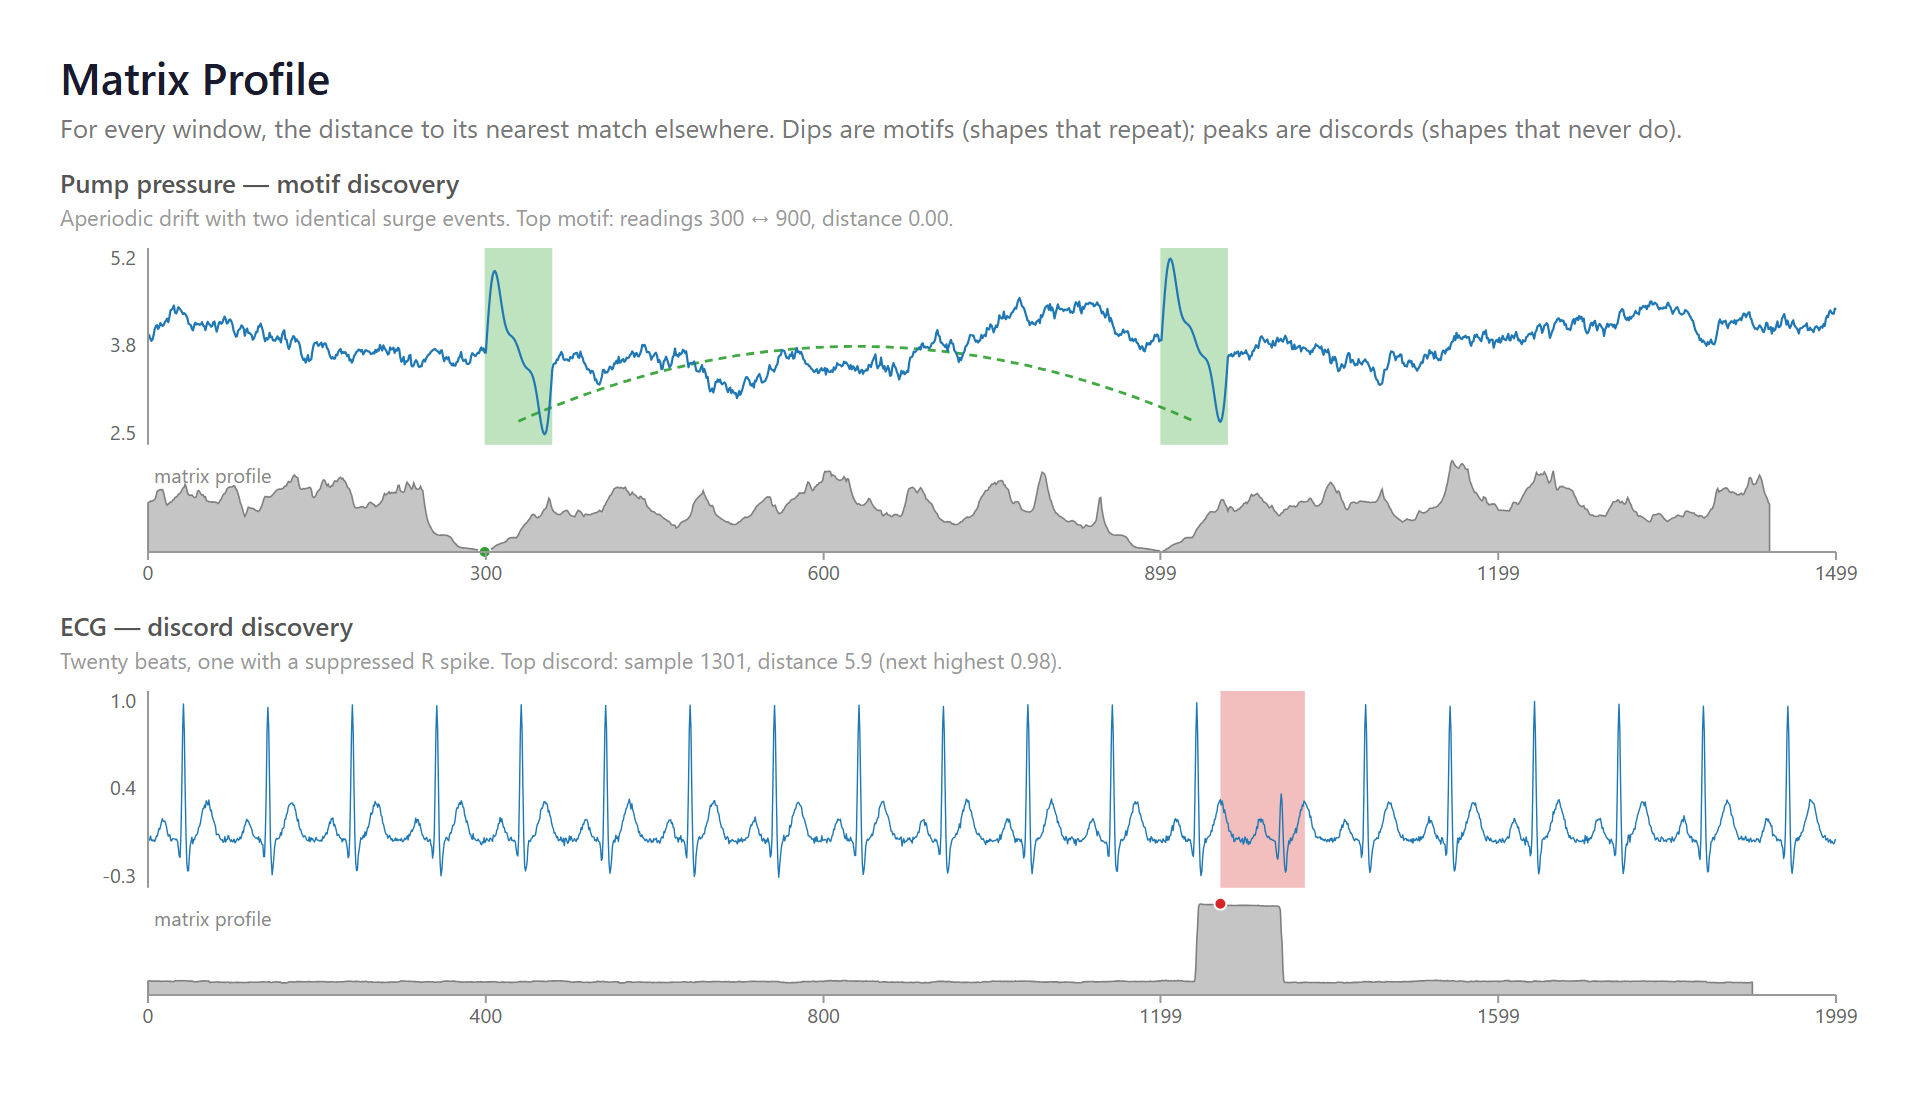
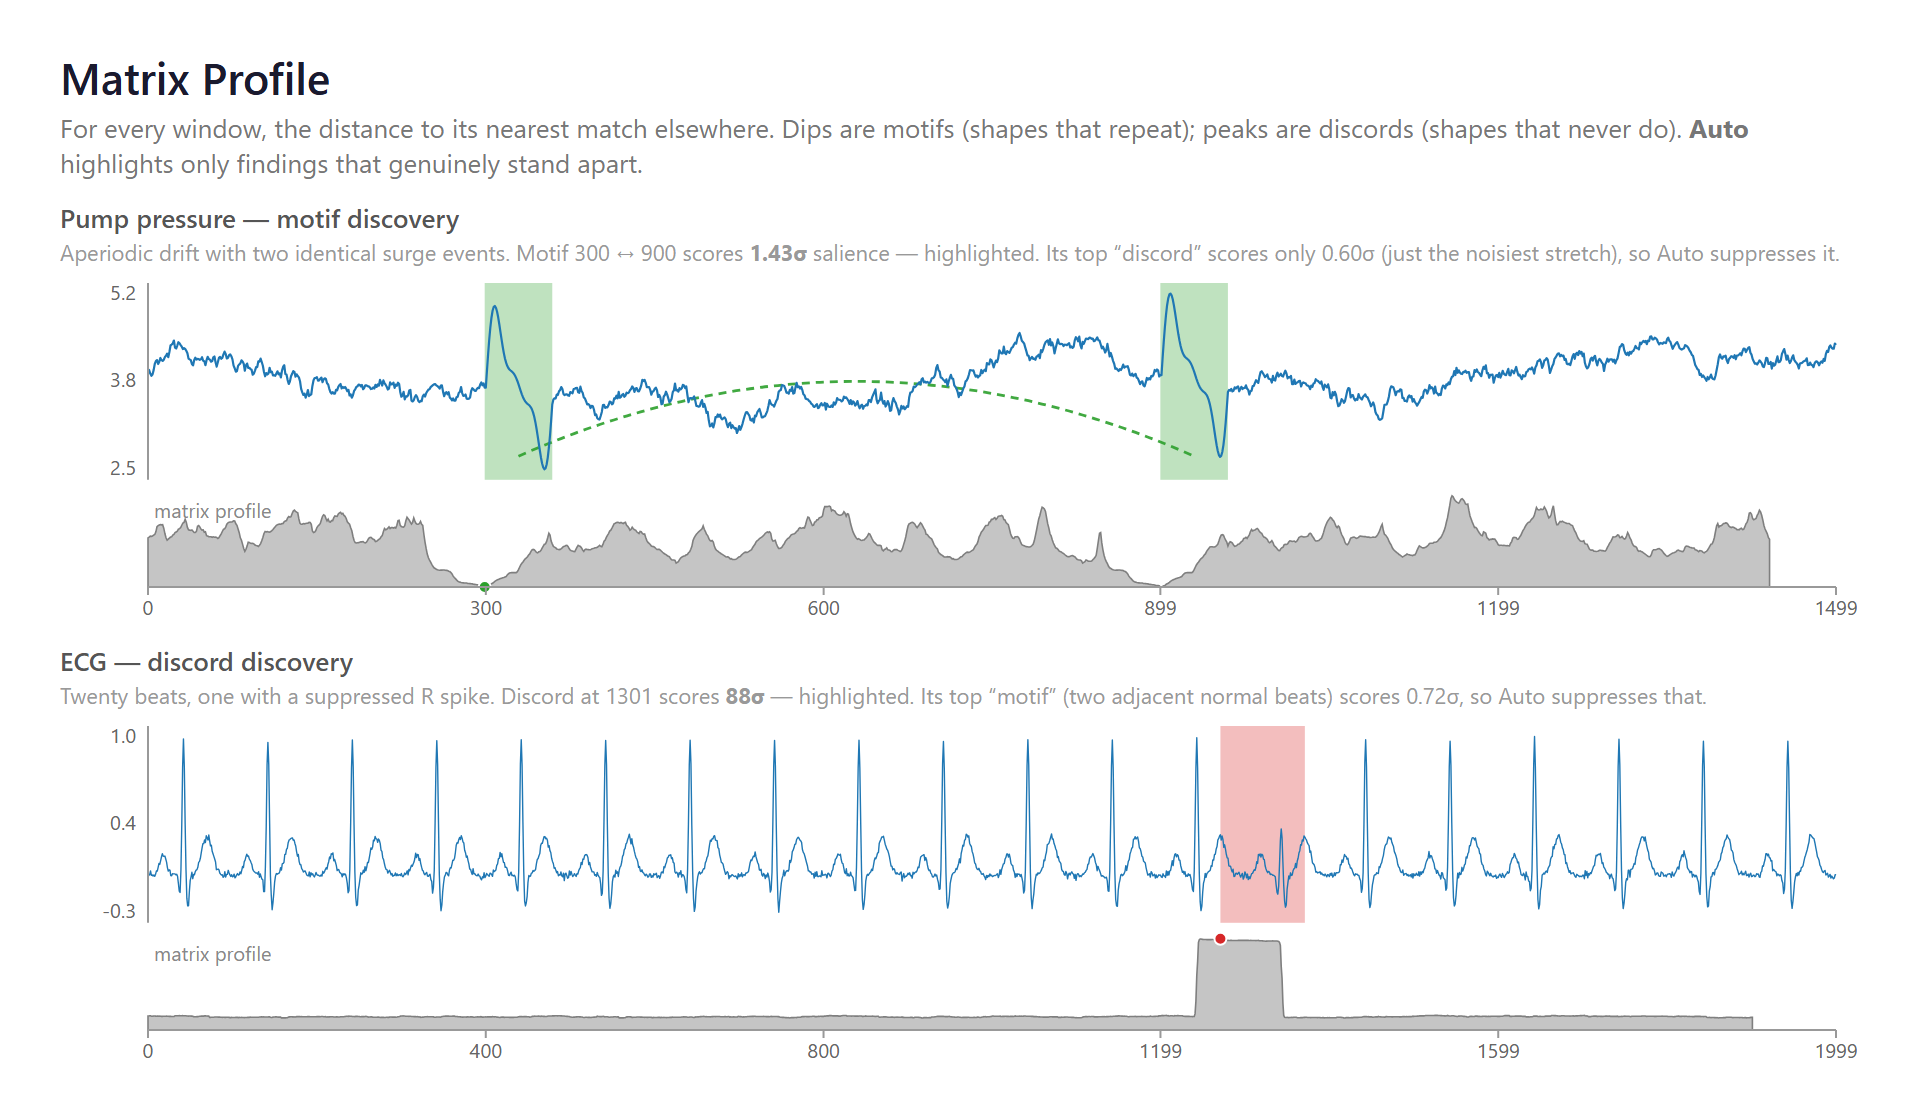
Matrix Profile: add focus control and salience gate
Motifs and discords need opposite baselines - motifs need aperiodic normality
so the planted repeat is the only repeat; discords need repetitive normality so
the anomaly is the only break. Drawing "top 3 of each" therefore showed noise
for half the display on any real dataset: on aperiodic data the discord boxes
landed on arbitrary novel spots (actively misleading), and on periodic data the
motif boxes landed on two adjacent identical beats (true but vacuous).

- Highlight dropdown: Auto (default) / Motifs only / Discords only / Both
- salience = gap to the immediate runner-up in robust (MAD-based) sigma, made
  monotone by a backward max pass so genuinely tied findings don't cancel out
- low-variance windows (sigma < 5% of median) excluded from discord candidacy:
  z-normalization divides by that tiny sigma and amplifies noise into a fake
  anomaly. This was the second pinned review item.
- status note when a side is suppressed, so silence doesn't read as breakage;
  salience surfaced in tooltips

Measure chosen empirically against ground truth, not by intuition. Two other
candidates were tried and rejected:
  z vs median      - FAILS: trivial ECG motif 2.93 > genuine pump motif 2.78
  past P95/P05     - FAILS worse: 0.43 real vs 1.11 artifact
  gap to runner-up - CLEAN: real 1.43 / 88.05, artifacts 0.60 / 0.72
Comparing against a deeper rank also loses the separation, because a gentle
slope accumulates until a trivial finding looks significant; the immediate gap
[…]

diff --git a/matrixProfile/src/matrixProfile.ts b/matrixProfile/src/matrixProfile.ts
@@ -47,17 +47,49 @@ export interface MatrixProfileResult {
     mpi: Int32Array;
     /** Number of subsequences = n - m + 1. */
     length: number;
+    /** Per-window standard deviation, retained for the low-variance guard. */
+    sig: Float64Array;
+    /**
+     * True where the window is so flat that z-normalization would amplify pure
+     * noise into a spurious "anomaly" (see the guard note in stomp()). These
+     * positions are excluded from discord candidacy.
+     */
+    lowVariance: boolean[];
+    lowVarianceCount: number;
+    /** Median of the finite profile values — the "typical distance" baseline. */
+    median: number;
+    /**
+     * Robust spread of the profile (1.4826·MAD ≈ σ for normal data). MAD is used
+     * rather than the standard deviation because a single strong anomaly would
+     * inflate σ and mask itself.
+     */
+    spread: number;
 }
+
+/** Extra candidates pulled beyond those displayed, so the last one still has a successor to compare against. */
+const SALIENCE_TAIL = 4;
 
 export interface MotifPair {
     a: number;          // start index of one occurrence
     b: number;          // start index of the matching occurrence
     distance: number;
+    /** How far *below* the profile bulk this pair sits, in robust σ. */
+    salience: number;
 }
 
 export interface Discord {
     index: number;
     distance: number;
+    /** How far *above* the profile bulk this point sits, in robust σ. */
+    salience: number;
+}
+
+/** Median of an array (does not mutate the input). */
+function medianOf(values: number[]): number {
+    if (values.length === 0) return 0;
+    const s = values.slice().sort((a, b) => a - b);
+    const mid = s.length >> 1;
+    return s.length % 2 ? s[mid] : (s[mid - 1] + s[mid]) / 2;
 }
 
 /** Rolling mean and (population) standard deviation for every window. */
@@ -156,47 +188,155 @@ export function stomp(T: Float64Array, m: number, exclusion: number): MatrixProf
         scanRow(i);
     }
 
-    return { mp, mpi, length: l };
+    // ── Low-variance guard ──────────────────────────────────────
+    // A near-flat window has no real shape: after z-normalization it is almost
+    // pure noise, which matches nothing, so its profile distance is spuriously
+    // large. Left alone, those windows masquerade as the top discords. Flag any
+    // window whose σ is a small fraction of the typical σ so the discord search
+    // can skip them. (Motifs are unaffected: flat-matches-flat is a real motif
+    // and already scores a *low* distance, not a high one.)
+    const sigVals: number[] = [];
+    for (let i = 0; i < l; i++) if (Number.isFinite(sig[i])) sigVals.push(sig[i]);
+    const medianSig = medianOf(sigVals);
+    const varianceFloor = medianSig * 0.05;   // < 5% of typical variability
+    const lowVariance = new Array<boolean>(l);
+    let lowVarianceCount = 0;
+    for (let i = 0; i < l; i++) {
+        const low = sig[i] < varianceFloor;
+        lowVariance[i] = low;
+        if (low) lowVarianceCount++;
+    }
+
+    // ── Salience baseline ───────────────────────────────────────
+    // Robust centre and spread of the profile distribution, so motif/discord
+    // extremes can be scored as "how many σ from the bulk" rather than accepted
+    // unconditionally.
+    const mpVals: number[] = [];
+    for (let i = 0; i < l; i++) if (Number.isFinite(mp[i])) mpVals.push(mp[i]);
+    const median = medianOf(mpVals);
+    const mad = medianOf(mpVals.map(v => Math.abs(v - median)));
+    const spread = Math.max(1.4826 * mad, 1e-9);
+
+    return { mp, mpi, length: l, sig, lowVariance, lowVarianceCount, median, spread };
 }
 
 /**
- * Top motif pairs: repeatedly take the globally smallest profile value and its
- * neighbour, then blank out the neighbourhood of both so the next pair is a
- * genuinely different pattern rather than a one-sample shift of this one.
+ * ── How salience is measured, and why ───────────────────────────
+ *
+ * Every series has a smallest and a largest profile value, so "top-N" always
+ * returns something. The question is whether those extremes are *findings* or
+ * just the ends of a continuum. Three candidate measures were tested against
+ * datasets with known ground truth (a planted motif in aperiodic data; a planted
+ * anomaly in periodic data):
+ *
+ *   A. distance from the profile median, in robust σ
+ *   B. distance past the P95/P05 tail
+ *   C. **gap to the runner-up candidates**
+ *
+ * A and B both fail: on tightly-clustered periodic data the profile's spread is
+ * so small that a *trivial* motif (two adjacent identical heartbeats) scores
+ * 2.93σ from the median — higher than a *genuine* planted motif at 2.78σ in
+ * noisier data. No cutoff separates them.
+ *
+ * C separates cleanly, because it asks the right question: **is there a cliff
+ * right after this candidate?** A real, isolated finding is followed by a sharp
+ * drop to ordinary values; the maximum of a noisy continuum has near-identical
+ * runners-up right behind it. On the same ground truth, real findings scored
+ * 1.43 and 88.05 while artifacts scored 0.60 and 0.72 — no overlap.
+ *
+ * (Comparing against a deeper rank instead of the immediate runner-up was also
+ * tried and *loses* the separation: a gentle slope accumulates over several
+ * ranks until a trivial finding looks significant.)
+ *
+ * One wrinkle: two genuinely equal findings would have no gap between them and
+ * would suppress each other. Salience is therefore made monotone with a
+ * backward pass — a candidate inherits the salience of the one behind it if that
+ * is larger — so a tied pair is judged by the cliff *after the pair*.
  */
-export function findMotifs(
-    res: MatrixProfileResult, count: number, exclusion: number
-): MotifPair[] {
-    const work = Float64Array.from(res.mp);
-    const out: MotifPair[] = [];
-    for (let k = 0; k < count; k++) {
-        let best = Infinity, bi = -1;
+
+/** Pull ranked candidates with the trivial-match exclusion applied. */
+function extractCandidates(
+    mp: Float64Array, mpi: Int32Array, skip: boolean[] | null,
+    wanted: number, exclusion: number, largest: boolean
+): { index: number; partner: number; distance: number }[] {
+    const work = Float64Array.from(mp);
+    if (skip) for (let i = 0; i < work.length; i++) if (skip[i]) work[i] = NaN;
+
+    const out: { index: number; partner: number; distance: number }[] = [];
+    for (let k = 0; k < wanted; k++) {
+        let best = largest ? -Infinity : Infinity, bi = -1;
         for (let i = 0; i < work.length; i++) {
-            if (Number.isFinite(work[i]) && work[i] < best) { best = work[i]; bi = i; }
+            if (!Number.isFinite(work[i])) continue;
+            if (largest ? work[i] > best : work[i] < best) { best = work[i]; bi = i; }
         }
         if (bi < 0) break;
-        const partner = res.mpi[bi];
-        out.push({ a: bi, b: partner, distance: best });
+        const partner = mpi[bi];
+        out.push({ index: bi, partner, distance: best });
         blank(work, bi, exclusion);
-        if (partner >= 0) blank(work, partner, exclusion);
+        // For motifs the partner is part of the same finding — claim it too.
+        if (!largest && partner >= 0) blank(work, partner, exclusion);
     }
     return out;
 }
 
-/** Top discords: the same sweep, but taking the largest values. */
+/**
+ * Top motif pairs — the smallest profile values and their matching partners.
+ *
+ * @param minSalience  require each pair to stand at least this many robust σ
+ *                     apart from the ordinary level. 0 keeps the raw top-N
+ *                     (explicit "Motifs" mode); a positive value gates out
+ *                     non-findings (used by "Auto").
+ */
+export function findMotifs(
+    res: MatrixProfileResult, count: number, exclusion: number, minSalience = 0
+): MotifPair[] {
+    const cands = extractCandidates(res.mp, res.mpi, null, count + SALIENCE_TAIL, exclusion, false);
+    if (cands.length === 0) return [];
+    const sal = gapSalience(cands.map(c => c.distance), res.spread, false);
+
+    const out: MotifPair[] = [];
+    for (let k = 0; k < Math.min(count, cands.length); k++) {
+        if (sal[k] < minSalience) break;
+        const c = cands[k];
+        out.push({ a: c.index, b: c.partner, distance: c.distance, salience: sal[k] });
+    }
+    return out;
+}
+
+/**
+ * Gap-to-runner-up salience for a ranked candidate list, made monotone so tied
+ * findings don't cancel each other out. The final candidate has no successor to
+ * compare against and scores 0.
+ */
+function gapSalience(distances: number[], spread: number, largest: boolean): number[] {
+    const n = distances.length;
+    const out = new Array<number>(n).fill(0);
+    for (let k = n - 2; k >= 0; k--) {
+        const gap = largest
+            ? distances[k] - distances[k + 1]        // discords: bigger is better
+            : distances[k + 1] - distances[k];       // motifs: smaller is better
+        out[k] = Math.max(gap / spread, out[k + 1]);
+    }
+    return out;
+}
+
+/**
+ * Top discords — the largest profile values. Low-variance windows are never
+ * eligible: they are z-normalization artifacts, not anomalies.
+ */
 export function findDiscords(
-    res: MatrixProfileResult, count: number, exclusion: number
+    res: MatrixProfileResult, count: number, exclusion: number, minSalience = 0
 ): Discord[] {
-    const work = Float64Array.from(res.mp);
+    const cands = extractCandidates(res.mp, res.mpi, res.lowVariance,
+        count + SALIENCE_TAIL, exclusion, true);
+    if (cands.length === 0) return [];
+    const sal = gapSalience(cands.map(c => c.distance), res.spread, true);
+
     const out: Discord[] = [];
-    for (let k = 0; k < count; k++) {
-        let best = -Infinity, bi = -1;
-        for (let i = 0; i < work.length; i++) {
-            if (Number.isFinite(work[i]) && work[i] > best) { best = work[i]; bi = i; }
-        }
-        if (bi < 0) break;
-        out.push({ index: bi, distance: best });
-        blank(work, bi, exclusion);
+    for (let k = 0; k < Math.min(count, cands.length); k++) {
+        if (sal[k] < minSalience) break;
+        const c = cands[k];
+        out.push({ index: c.index, distance: c.distance, salience: sal[k] });
     }
     return out;
 }

diff --git a/matrixProfile/src/visual.ts b/matrixProfile/src/visual.ts
@@ -131,8 +131,24 @@ export class Visual implements IVisual {
                 return;
             }
 
-            const motifs = findMotifs(res, Math.max(0, Math.round(P.motifCount.value ?? 3)), exclusion);
-            const discords = findDiscords(res, Math.max(0, Math.round(P.discordCount.value ?? 3)), exclusion);
+            // ── Focus + salience gate ──────────────────────────────
+            // Most series support motifs OR discords, not both: a repetitive
+            // series makes anomalies obvious but every "motif" trivial, and an
+            // aperiodic one makes a planted repeat obvious but every "discord"
+            // just the top of a continuum. In Auto the salience gate decides per
+            // dataset, so the visual stops asserting findings that aren't there.
+            const mode = String(P.highlightMode.value?.value ?? "auto");
+            const auto = mode === "auto";
+            const gate = auto ? Math.max(0, P.minSalience.value ?? 1) : 0;
+            const wantMotifs = auto || mode === "motifs" || mode === "both";
+            const wantDiscords = auto || mode === "discords" || mode === "both";
+
+            const motifs = wantMotifs
+                ? findMotifs(res, Math.max(0, Math.round(P.motifCount.value ?? 3)), exclusion, gate)
+                : [];
+            const discords = wantDiscords
+                ? findDiscords(res, Math.max(0, Math.round(P.discordCount.value ?? 3)), exclusion, gate)
+                : [];
 
             // ── Layout ─────────────────────────────────────────────
             const fs = Math.max(6, A.fontSize.value);
@@ -170,6 +186,28 @@ export class Visual implements IVisual {
                     .attr("x", plotL).attr("y", this.margin.top + fs)
                     .attr("font-size", `${fs}px`).attr("fill", "#b26a00")
                     .text(`Showing first ${MAX_POINTS.toLocaleString()} of ${raw.length.toLocaleString()} points — matrix profile is O(n²).`);
+            }
+
+            // ── Status note ────────────────────────────────────────
+            // Silence would read as "broken", so say what was suppressed and why.
+            const statusParts: string[] = [];
+            if (auto) {
+                if (motifs.length === 0 && discords.length === 0) {
+                    statusParts.push("No motif or discord stands out above the salience threshold — this series may have no strong repeated pattern or anomaly");
+                } else if (motifs.length === 0) {
+                    statusParts.push("Discords only: no repeated pattern stands out");
+                } else if (discords.length === 0) {
+                    statusParts.push("Motifs only: no anomaly stands out from the background");
+                }
+            }
+            if (res.lowVarianceCount > 0) {
+                statusParts.push(`${res.lowVarianceCount.toLocaleString()} near-flat window(s) excluded from anomalies (z-normalization amplifies noise there)`);
+            }
+            if (statusParts.length) {
+                this.container.append("text")
+                    .attr("x", plotL).attr("y", this.margin.top + (truncated ? fs * 2 + 4 : fs))
+                    .attr("font-size", `${Math.max(9, fs - 1)}px`).attr("fill", "#8a8a8a")
+                    .text(statusParts.join("  ·  "));
             }
 
             // ── Highlight spans (drawn under the series line) ──────
@@ -294,13 +332,17 @@ export class Visual implements IVisual {
         motifs: MotifPair[], discords: Discord[]
     ): void {
         // Precompute which indices are inside a highlighted span.
+        const salFmt = d3.format(",.2~f");
         const spanOf = (i: number): string | null => {
             for (const mo of motifs) {
-                if (i >= mo.a && i < mo.a + m) return `Motif (pairs with ${labels[mo.b] ?? mo.b})`;
-                if (mo.b >= 0 && i >= mo.b && i < mo.b + m) return `Motif (pairs with ${labels[mo.a] ?? mo.a})`;
+                const s = `  ·  salience ${salFmt(mo.salience)}σ`;
+                if (i >= mo.a && i < mo.a + m) return `Motif (pairs with ${labels[mo.b] ?? mo.b})${s}`;
+                if (mo.b >= 0 && i >= mo.b && i < mo.b + m) return `Motif (pairs with ${labels[mo.a] ?? mo.a})${s}`;
             }
             for (const di of discords) {
-                if (i >= di.index && i < di.index + m) return "Discord (anomaly)";
+                if (i >= di.index && i < di.index + m) {
+                    return `Discord (anomaly)  ·  salience ${salFmt(di.salience)}σ`;
+                }
             }
             return null;
         };

diff --git a/matrixProfile/src/settings.ts b/matrixProfile/src/settings.ts
@@ -39,13 +39,35 @@ class ProfileCard extends FormattingSettingsCard {
         value: 50
     });
 
+    highlightMode = new formattingSettings.ItemDropdown({
+        name: "highlightMode",
+        displayName: "Highlight",
+        description: "Auto shows only findings that genuinely stand out — most series support motifs or discords, not both. The other options show the top-N regardless.",
+        items: [
+            { value: "auto", displayName: "Auto (only what stands out)" },
+            { value: "motifs", displayName: "Motifs only" },
+            { value: "discords", displayName: "Discords only" },
+            { value: "both", displayName: "Both (unfiltered)" }
+        ],
+        value: { value: "auto", displayName: "Auto (only what stands out)" }
+    });
+
+    minSalience = new formattingSettings.NumUpDown({
+        name: "minSalience",
+        displayName: "Salience threshold",
+        description: "In Auto mode, how far a finding must stand apart from the next-best candidates (in robust σ) to be highlighted. Lower to see weaker findings.",
+        value: 1
+    });
+
     name: string = "profile";
     displayName: string = "Matrix Profile";
     slices: Array<FormattingSettingsSlice> = [
         this.windowLength,
         this.motifCount,
         this.discordCount,
-        this.exclusionZone
+        this.exclusionZone,
+        this.highlightMode,
+        this.minSalience
     ];
 }
 

diff --git a/matrixProfile/sample-data/README.md b/matrixProfile/sample-data/README.md
@@ -32,6 +32,27 @@ discords want opposite baselines**:
 Feed a random-walk series to a discord search and it will (correctly) tell you
 every stretch is novel — because in a random walk, it is.
 
+### The visual handles this for you
+
+Because of that tension, blindly drawing "top 3 motifs and top 3 discords" means
+**half the highlights are noise on any real dataset**. So the default
+**Highlight → Auto** only marks findings that genuinely stand apart from the
+next-best candidates, scored in robust σ:
+
+| Dataset | Motif salience | Discord salience | Auto shows |
+|---|---:|---:|---|
+| Pump pressure | **1.43σ** | 0.60σ | motif only |
+| ECG | 0.72σ | **88σ** | discord only |
+
+The suppressed side is exactly the meaningless one — the pump's "discord" is
+just its noisiest stretch, and the ECG's "motif" is two adjacent normal beats.
+A note under the header tells you when a side has been suppressed, so silence
+never reads as breakage.
+
+Set **Highlight** to *Motifs only*, *Discords only* or *Both (unfiltered)* to
+override, and lower **Salience threshold** (default 1.0) to admit weaker
+findings.
+
 ---
 
 ## 1 · Pump pressure — motif discovery
@@ -78,7 +99,10 @@ threshold — just the window length.
   0% every position trivially matches its neighbour and the profile flatlines
   to zero — a good way to see why the exclusion exists.
 - **Motif / discord counts** — raise them to see the second- and third-best
-  patterns, which are usually much weaker than the first.
+  patterns. In Auto these are usually still suppressed, because they sit at the
+  ordinary level; switch Highlight to *Both (unfiltered)* to see them anyway.
+- **Salience threshold** — drop it to 0 to reproduce the old always-show-N
+  behaviour, or raise it to demand a very clear finding.
 - Hover anywhere for the value, the profile distance and where that
   subsequence's nearest match lives.
 